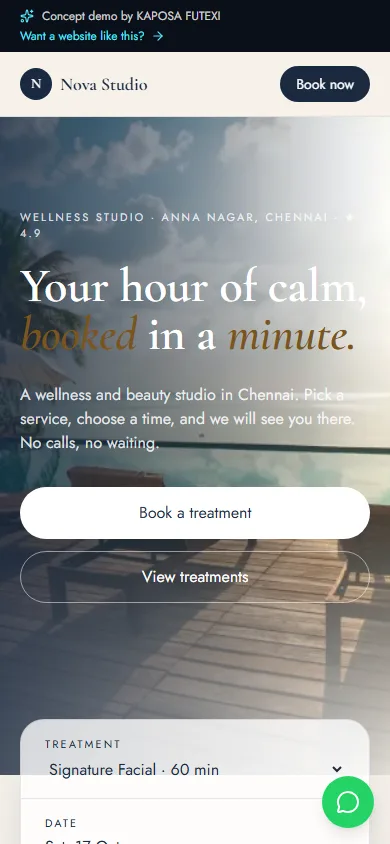
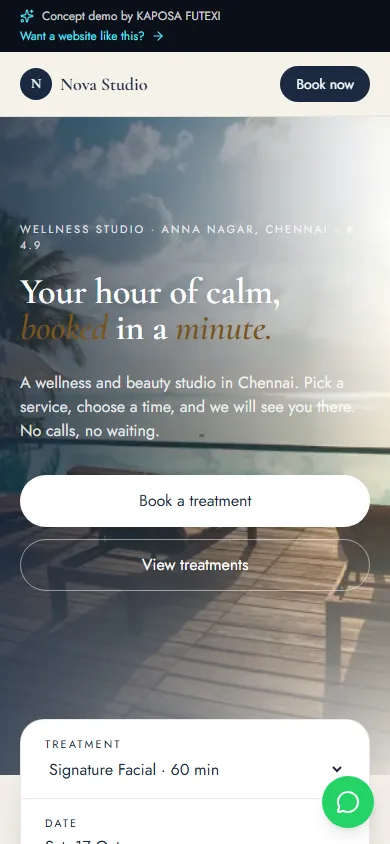
Phone headlines sized so the web font swap cannot reflow the hero
On phones the four demo headlines sat at the wrap limit of their
container, so the fallback font and the real font broke lines
differently and the whole hero moved when the font arrived (CLS 0.07
on /demo/booking in CI). Smaller phone sizes keep both fonts on the
same two lines at 360, 375 and 412 px. Mobile case-study screens
recaptured.

diff --git a/src/content/demos.ts b/src/content/demos.ts
@@ -57,7 +57,7 @@ export const demos: readonly Demo[] = [
     contactType: 'booking',
     status: 'live',
     liveHref: '/demo/booking',
-    screensVersion: 4,
+    screensVersion: 5,
     screens: {
       desktop: [
         {
@@ -120,7 +120,7 @@ export const demos: readonly Demo[] = [
     contactType: 'website',
     status: 'live',
     liveHref: '/demo/salon',
-    screensVersion: 4,
+    screensVersion: 5,
     screens: {
       desktop: [
         {
@@ -285,7 +285,7 @@ export const demos: readonly Demo[] = [
     contactType: 'website',
     status: 'live',
     liveHref: '/demo/tuition',
-    screensVersion: 3,
+    screensVersion: 4,
     screens: {
       desktop: [
         { src: '/demos/tuition/desktop-home.webp', alt: 'Vidya Academy home with results strip' },
@@ -357,7 +357,7 @@ export const demos: readonly Demo[] = [
     contactType: 'ai',
     status: 'live',
     liveHref: '/demo/ai-business',
-    screensVersion: 3,
+    screensVersion: 4,
     screens: {
       desktop: [
         { src: '/demos/ai-business/desktop-home.webp', alt: 'Pulse Fitness home with the AI assistant' },

diff --git a/src/app/(demos)/demo/booking/page.tsx b/src/app/(demos)/demo/booking/page.tsx
@@ -55,7 +55,7 @@ export default async function NovaHomePage() {
             <FadeUp index={0} className="dm-label text-white/80">
               Wellness studio · Anna Nagar, Chennai · ★ {nova.rating}
             </FadeUp>
-            <h1 className="mt-5 max-w-3xl font-display text-5xl leading-[1.02] text-balance sm:text-6xl lg:text-7xl">
+            <h1 className="mt-5 max-w-3xl font-display text-4xl leading-[1.02] text-balance sm:text-6xl lg:text-7xl">
               <Words text="Your hour of calm," />
               <br />
               <Words text="booked in a minute." accent={['booked', 'minute']} startIndex={4} />

diff --git a/src/app/(demos)/demo/salon/page.tsx b/src/app/(demos)/demo/salon/page.tsx
@@ -35,7 +35,7 @@ export default async function VelvetHomePage() {
             <FadeUp index={0} className="dm-label text-dm-brand">
               T. Nagar · Est. 2014 · ★ {velvet.rating}
             </FadeUp>
-            <h1 className="mt-6 font-display text-[3.2rem] leading-[0.98] text-balance sm:text-7xl lg:text-[6.5rem]">
+            <h1 className="mt-6 font-display text-[2.75rem] leading-[0.98] text-balance sm:text-7xl lg:text-[6.5rem]">
               <Words text="Beauty," />
               <br />
               <Words text="redefined." accent={['redefined']} startIndex={1} />

diff --git a/src/app/(demos)/demo/ai-business/page.tsx b/src/app/(demos)/demo/ai-business/page.tsx
@@ -67,7 +67,7 @@ export default async function PulseHomePage() {
             <FadeUp index={0} className="dm-label text-dm-brand">
               Velachery · 5:30 AM to 10:30 PM · ★ {pulse.rating}
             </FadeUp>
-            <h1 className="mt-5 font-display text-[4.2rem] text-balance sm:text-8xl lg:text-[8.5rem]">
+            <h1 className="mt-5 font-display text-[3.6rem] text-balance sm:text-8xl lg:text-[8.5rem]">
               <Words text="Train smarter." />
               <br />
               <Words text="Ask anything." accent={['anything.']} startIndex={2} />

diff --git a/src/app/(demos)/demo/tuition/page.tsx b/src/app/(demos)/demo/tuition/page.tsx
@@ -52,7 +52,7 @@ export default async function VidyaHomePage() {
                 Admissions open · 2026-27
               </span>
             </FadeUp>
-            <h1 className="mt-6 font-display text-5xl text-balance sm:text-6xl lg:text-7xl">
+            <h1 className="mt-6 font-display text-4xl text-balance sm:text-6xl lg:text-7xl">
               <Words text="Small batches." />
               <br />
               <Words text="Big results." accent={['big', 'results.']} startIndex={2} />
